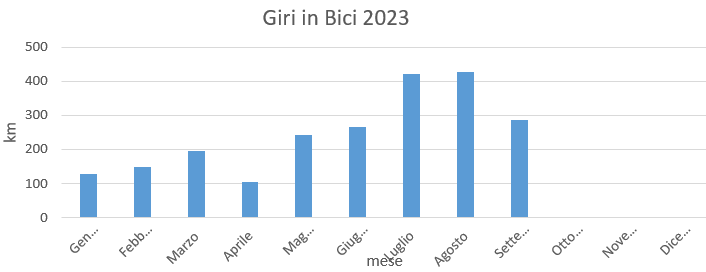
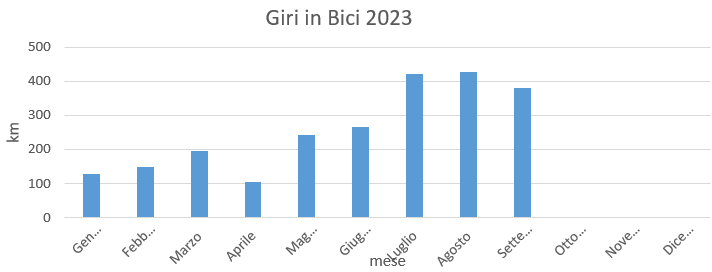
Add files via upload

diff --git a/Statistiche/Statistiche2023.html b/Statistiche/Statistiche2023.html
@@ -47,55 +47,55 @@
         <tr>
             <td>Gennaio</td>
             <td>127</td>
-            <td>5,74%</td>
+            <td>5,50%</td>
         </tr>
 
         <tr>
             <td>Febbraio</td>
             <td>148</td>
-            <td>6,68%</td>
+            <td>6,41%</td>
         </tr>
 
         <tr>
             <td>Marzo</td>
             <td>194</td>
-            <td>8,76%</td>
+            <td>8,41%</td>
         </tr>
 
         <tr>
             <td>Aprile</td>
             <td>103</td>
-            <td>4,65%</td>
+            <td>4,46%</td>
         </tr>
 
         <tr>
             <td>Maggio</td>
             <td>242</td>
-            <td>10,93%</td>
+            <td>10,49%</td>
         </tr>
 
         <tr>
             <td>Giugno</td>
             <td>265</td>
-            <td>11,97%</td>
+            <td>11,489%</td>
         </tr>
 
         <tr>
             <td>Luglio</td>
             <td>422</td>
-            <td>19,06%</td>
+            <td>18,28%</td>
         </tr>
 
         <tr>
             <td>Agosto</td>
             <td>426</td>
-            <td>19,24%</td>
+            <td>18,46%</td>
         </tr>
 
         <tr>
             <td>Settembre</td>
-            <td>287</td>
-            <td>12,96%</td>
+            <td>381</td>
+            <td>16,51%</td>
         </tr>
 
     </table>
@@ -106,10 +106,10 @@
 
     <br>
     <div class="colore">
-        <p>totale km 2.214
+        <p>totale km 2.308
             <img src="../Icone/traguardo.png">
         </p>
-        <p>km medi percorsi 59,84 km </p>
+        <p>km medi percorsi 60,74 km </p>
     </div>
     <br>
 

diff --git a/Statistiche.html b/Statistiche.html
@@ -83,7 +83,7 @@
             </td>
 
             <td>
-                22,10%
+                22,00%
             </td>
 
         </tr>
@@ -99,7 +99,7 @@
             </td>
 
             <td>
-                23,60%
+                23,40%
             </td>
         </tr>
 
@@ -113,7 +113,7 @@
             </td>
 
             <td>
-                34,30%
+                34,00%
             </td>
 
         </tr>
@@ -124,11 +124,11 @@
             </td>
 
             <td>
-                2.214
+                2.308
             </td>
 
             <td>
-                20,00%
+                20,60%
             </td>
 
         </tr>
@@ -158,11 +158,11 @@
 
     <div class="colore">
         <p>
-            totale km fatti 11.092
+            totale km fatti 11.186
             <img src="Icone/traguardo.png">
         </p>
 
-        <p>km medi percorsi 68,89 km </p>
+        <p>km medi percorsi 69,05 km </p>
 
     </div>
 

diff --git a/Estate/Estate2023.html b/Estate/Estate2023.html
@@ -234,6 +234,16 @@
             <td>68</td>
             <td>km</td>
         </tr>
+        
+        <tr>
+            <td>15 settembre</td>
+            <td>20</td>
+            <td><a
+                    href="https://www.komoot.com/it-it/tour/1309383040?ref=wtd&share_token=auTEHOLjFHzyPiu5NmPVcdbbUHhTs5esMuRgUehBvOn0qXgkSZ">
+                    Lago di Cornino + Fagagna </a></td>
+            <td>94</td>
+            <td>km</td>
+        </tr>
 
     </table>
 
@@ -243,10 +253,10 @@
     <br>
 
     <div class="colore">
-        <p> totale km 1.197
+        <p> totale km 1.291
             <img src="../Icone/traguardo.png">
         </p>
-        <p>km medi percorsi 63,00
+        <p>km medi percorsi 64,55
         </p>
     </div>
 </body>

diff --git a/Giri.html b/Giri.html
@@ -242,11 +242,11 @@
     <br>
     <div class="colore">
         <p>
-            totale km fatti 11.092
+            totale km fatti 11.186
             <img src="Icone/traguardo.png">
         </p>
 
-        <p>km medi percorsi 68,89 km </p>
+        <p>km medi percorsi 69,05 km </p>
 
     </div>
 

diff --git a/Estate.html b/Estate.html
@@ -104,7 +104,7 @@
                 </td>
     
                 <td>
-                    1.197
+                    1.291
                 </td>
             </tr>
 
